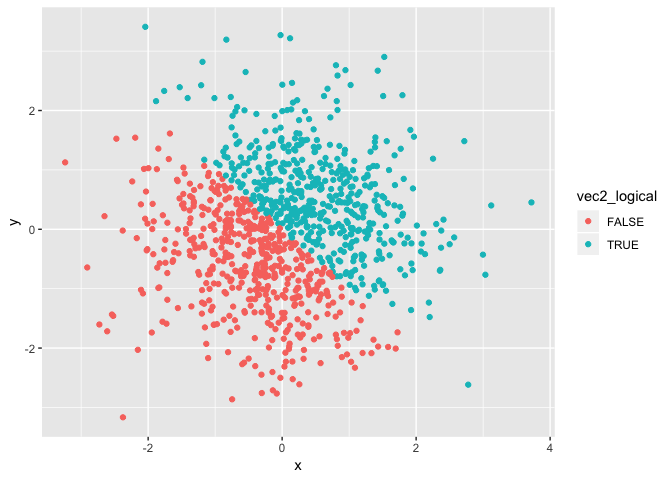
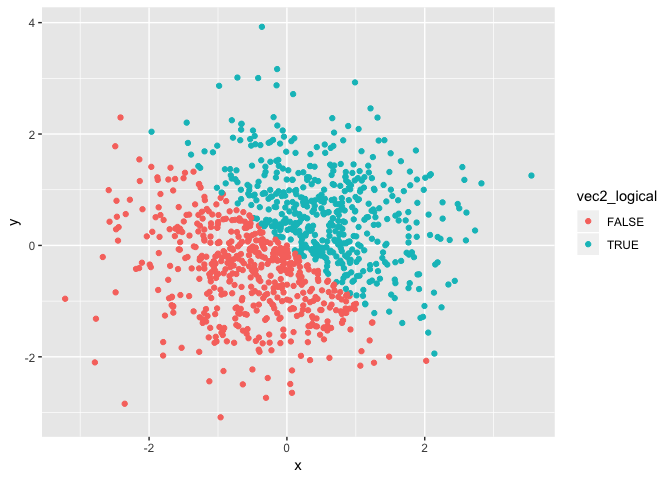
final commit

diff --git a/p8105_hw1_js5354.md b/p8105_hw1_js5354.md
@@ -16,10 +16,10 @@ problem1_df = tibble(
 
 
 mean(problem1_df$random_sample)
-## [1] 3.3
+## [1] 2.5
 
 mean(problem1_df$vec_logical)
-## [1] 0.6
+## [1] 0.5
 
 mean(problem1_df$vec_char)
 ## [1] NA
@@ -41,7 +41,9 @@ class(problem1_df$vec_factor)
 ## [1] "factor"
 ```
 
-Mean can be calculate for numeric and logical variables, but not for charactors and factors. Logical vectors are turned to integer vectors when a numerical value is required, with TRUE being mapped to 1 and FALSE to 0. However, charactor vectors and factor vectors cannot be coerced to numeric vectors in the content where a numerical value is required.
+Mean can be calculate for numeric and logical variables, but not for charactors and factors.
+
+Logical vectors are coerced into integer vectors when a numerical value is required, with TRUE being mapped to 1 and FALSE to 0. However, charactor vectors and factor vectors cannot be coerced to numeric vectors in the content where a numerical value is required.
 
 ``` r
 as.numeric(problem1_df$vec_logical)
@@ -51,9 +53,9 @@ as.numeric(problem1_df$vec_char)
 as.numeric(problem1_df$vec_factor)
 ```
 
-Factor "Y" and "N" are converted into 1 and 2 respectively. However, characters cannot be converted to numerical values and the result displays "NA".
+Factor "Y" and "N" are converted into interger 1 and 2 respectively. However, characters cannot be converted to numerical values and the result displays "NA".
 
-We are getting this result because the as.numeric function turns factor vectors into underlying numeric representation, though meaningless. However, as.numeric function is not capable of turning letter(s) into numbers so we get "NA" when we apply this function to character vectors.
+The reason of getting such results is that the `as.numeric` function turns factor vectors into underlying numeric representation, though meaningless. However, `as.numeric` is not capable of transforming letter(s) into numbers so we get "NA" when we apply this function to character vectors.
 
 ``` r
 
@@ -61,11 +63,10 @@ as.numeric(as.factor(problem1_df$vec_char))
 ##  [1]  1  2  3  4  5  7  8  9 10  6
 
 as.numeric(as.character(problem1_df$vec_factor))
-## Warning: NAs introduced by coercion
 ##  [1] NA NA NA NA NA NA NA NA NA NA
 ```
 
-When character varialbes are first converted to factor and then numeric variables, they are assigned positive intergers starting from 1, in an alphebetic order. On the other hand, when factor varialbes are converted to character and then to numeric, "NA"s were introduced.
+When character varialbes are first converted to factor and then numeric variables, they are assigned positive intergers starting from 1. And in this case the intergers are assigned alphebetically. On the other hand, when factor varialbes are converted to character and then to numeric, "NA"s were introduced because R cannot coerce character varialbes into numeric variables.
 
 Problem 2
 ---------
@@ -83,8 +84,8 @@ true_proportion = sum(problem2_df$vec2_logical, na.rm=TRUE) / length(problem2_df
 ```
 
 The size of the dataset is 1000, 5 (rows, columns).
-The mean of x is 0.0331124 ; the median of x is 0.0210415.
-There are 49.8 % of cases for which the logical vector is TRUE.
+The mean of x is 0.0020806 ; the median of x is 4.422117510^{-4}.
+There are 49.3 % of cases for which the logical vector is TRUE.
 
 ``` r
 ggplot(problem2_df, aes(x = x, y = y, color = vec2_logical)) + geom_point()
@@ -110,4 +111,6 @@ ggplot(problem2_df, aes(x = x, y = y, color = vec2_factor)) + geom_point()
 
 ![](p8105_hw1_js5354_files/figure-markdown_github/plot-3.png)
 
-All three plots produce scatter plots in which two discrete colors are seperated by a straight line y = -x. Coloring by numeric vector generates four discrete color scales evenly spaced between 0 and 1. Because the numeric vector is previously coerced from the logical vector so it only takes values of 0 and 1, the plot that is colored according to numeric vector displays dots of only two colors.
+All three plots produced scatter plots with dots in two discrete colors. Each of the three scatter plots seemed to be divided into two areas, by a straight line y = -x, with dots of the same color staying only on one side of the straight line. Dots above y = -x are those with `x + y > 0` = TRUE, and vice versa. Thus when we included argument 'color = ...' in the ggplot function, the outcome displayed different colors based on different values in the variable in this argument.
+
+Additionally, coloring by numeric vector generated four discrete color scales evenly spaced between 0 and 1. Because the numeric vector was previously coerced from the logical vector which only took values of 0 and 1, the plot here displayed dots of only two colors.
